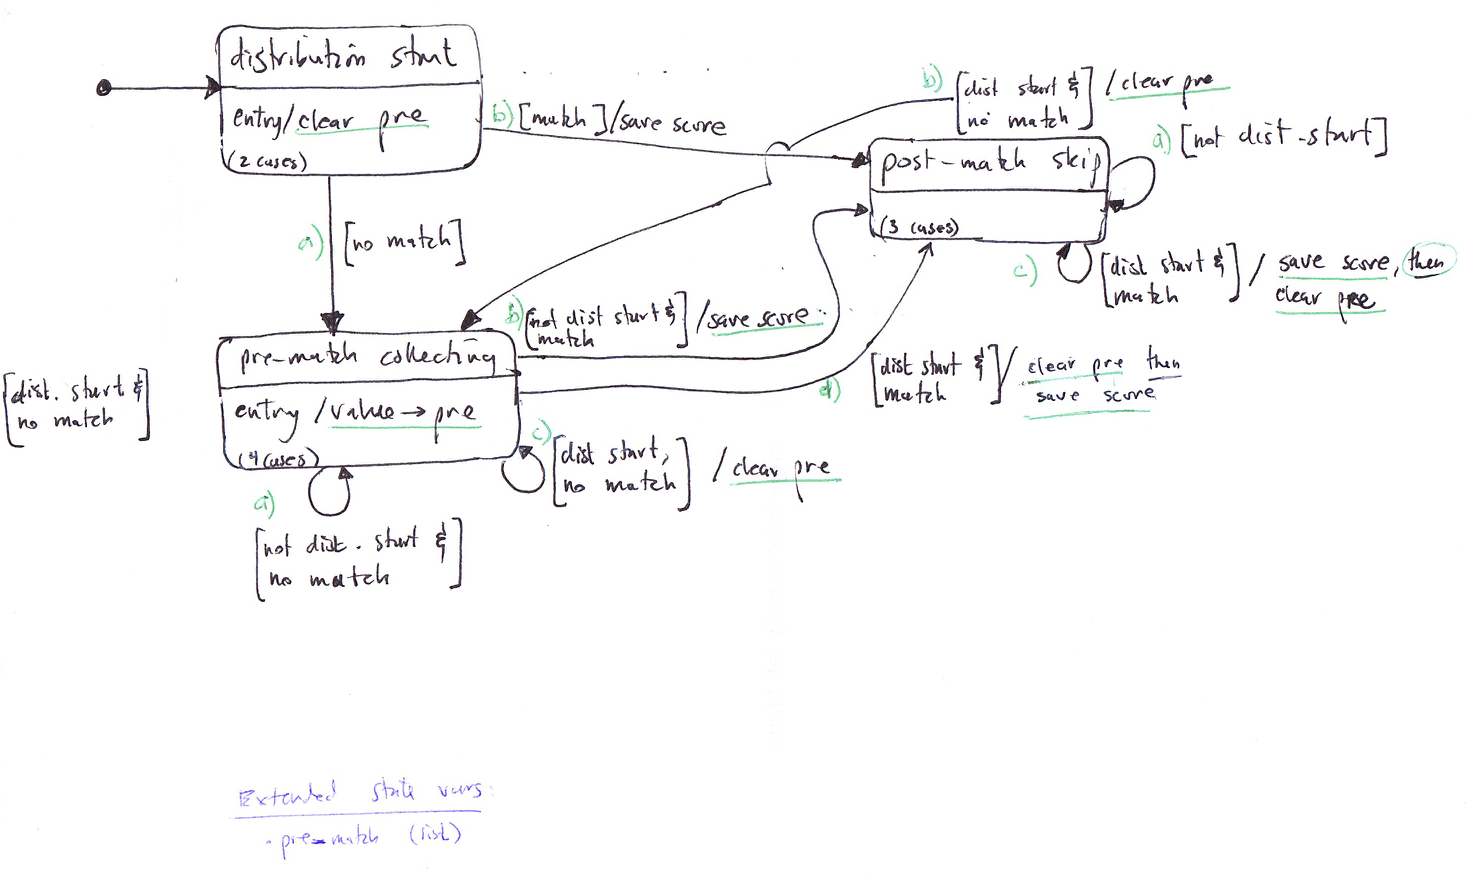
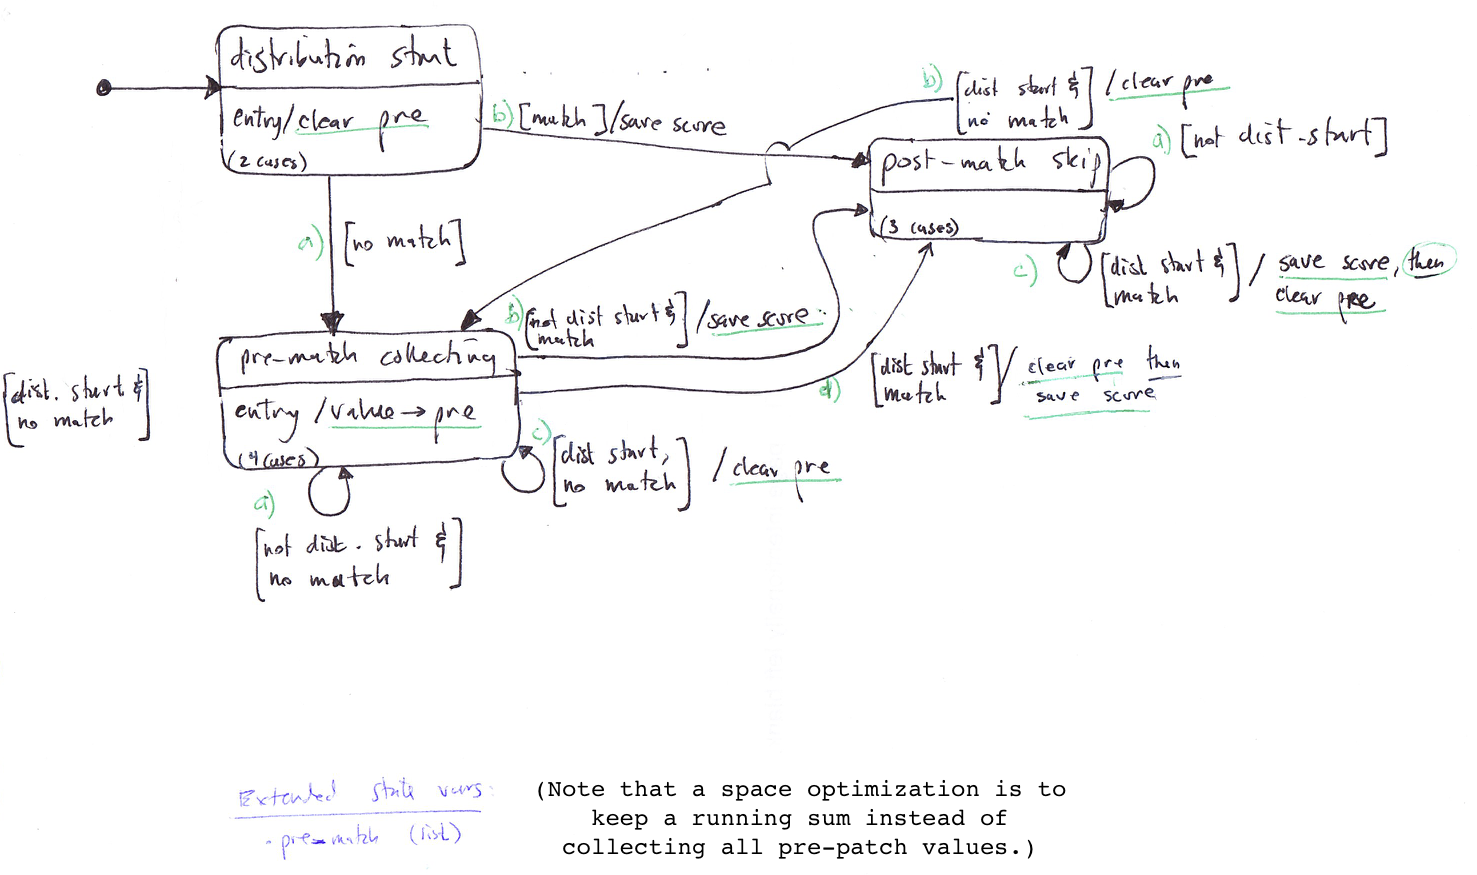
small space optimization of pit score

Changed region(s): [[0.3737, 0.8949, 0.7163, 0.9874]]

diff --git a/forecast_app/scores/calc_pit.py b/forecast_app/scores/calc_pit.py
@@ -46,13 +46,13 @@ class PitLineProcessingMachine(LineProcessingMachine):
     described in _calculate_pit_score_values(), and then finally skip the remaining post-truth bins until the next
     target/predictive distribution. We use one extended state variable:
 
-    - values_pre_match: a list of values up to the true bin
+    - values_sum_pre_match: running sum of predicted values (floats) seen up to a match
     """
 
 
     def __init__(self, score):
         super().__init__(score)
-        self.values_pre_match = []  # values (floats) seen up to a match
+        self.values_sum_pre_match = 0.0
         self.transition_to_state(PitMachineState.distribution_start)  # initial state
 
 
@@ -124,20 +124,19 @@ class PitLineProcessingMachine(LineProcessingMachine):
 
     def clear_state_vars(self):
         # logger.debug('clear_state_vars()')
-        self.values_pre_match = []
+        self.values_sum_pre_match = 0
 
 
     def add_value_to_pre(self):
-        self.values_pre_match.append(self.input_tuple_current.predicted_value)
-        # logger.debug('add_value_to_pre(): {} -> {}'.format(self.input_tuple_current.predicted_value, self.values_pre_match))
+        self.values_sum_pre_match = self.values_sum_pre_match + self.input_tuple_current.predicted_value
+        # logger.debug('add_value_to_pre(): {} -> {}'.format(self.input_tuple_current.predicted_value, self.values_sum_pre_match))
 
 
     def save_score(self):
         matching_input_tuple = self.input_tuple_current
-        values_pre_match_sum = sum(self.values_pre_match)
-        score_value = ((values_pre_match_sum * 2) + matching_input_tuple.predicted_value) / 2
+        score_value = ((self.values_sum_pre_match * 2) + matching_input_tuple.predicted_value) / 2
 
-        # logger.debug('save_score: {}'.format( [matching_input_tuple, self.values_pre_match, '.', values_pre_match_sum, score_value]))
+        # logger.debug('save_score: {}'.format( [matching_input_tuple, self.values_sum_pre_match, '.', score_value]))
         ScoreValue.objects.create(forecast_id=matching_input_tuple.forecast_pk,
                                   location_id=matching_input_tuple.location_pk,
                                   target_id=matching_input_tuple.target_pk,
